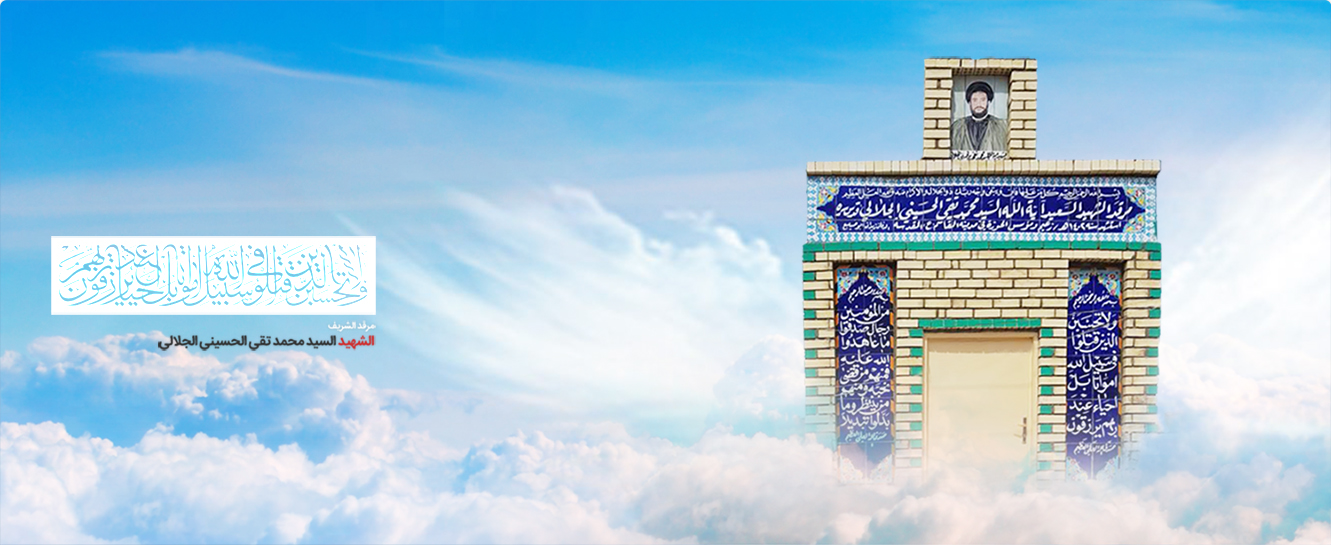
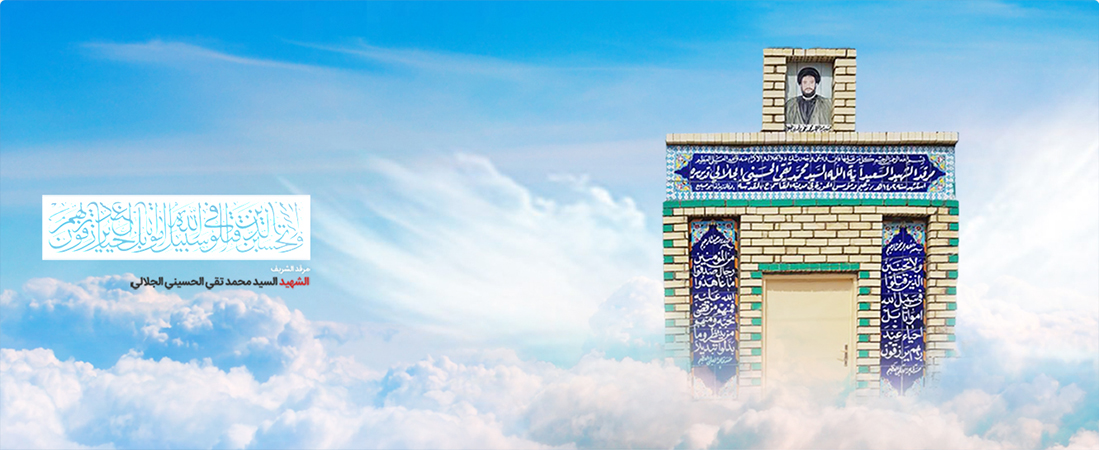
fix theme bugs

Changed region(s): [[0.6187, 0.3422, 0.8662, 0.4356], [0.6187, 0.5289, 0.6806, 0.6844], [0.8044, 0.5289, 0.8353, 0.7778]]

diff --git a/themes/frontend/css/bootstrap-theme.css b/themes/frontend/css/bootstrap-theme.css
@@ -33,7 +33,7 @@ a:active {
 
 .top-section{
     width: 100%;
-    height:800px;
+    height:656px;
     background: url("../images/sec-top-bg.jpg") center;
     background-size: cover;
     overflow: hidden;
@@ -75,9 +75,9 @@ a:active {
 }
 .person-pic{
     background: url("../images/aljalali.png") no-repeat center;
-    background-size: 263px 230px;
-    width: 263px;
-    height: 230px;
+    background-size: 245px 206px;
+    width: 245px;
+    height: 206px;
     position: absolute;
     right:0;
     bottom: 0;
@@ -88,9 +88,9 @@ a:active {
     right:230px;
     bottom: 50px;
     background: url("../images/name.png") no-repeat center;
-    background-size: 331px 106px;
-    width: 331px;
-    height:106px;
+    background-size: 300px 96px;
+    width: 300px;
+    height:96px;
     z-index:2;
 }
 .menu-container .name-pic{
@@ -206,7 +206,7 @@ a:active {
 .slider .slide-item{
     position: relative;
     width: 100%;
-    height:545px;
+    height:450px;
     overflow: hidden;
 }
 .image-container{
@@ -227,11 +227,12 @@ a:active {
     vertical-align: middle;
 }
 .slider .slide-item img{
-    max-height: 545px;
+    max-height: 450px;
     /*max-width: 100%;*/
 }
 .slider.owl-carousel .owl-item img{
     width: auto !important;
+    display: inline;
 }
 .slider .owl-dots{
     position: absolute;
@@ -282,6 +283,11 @@ a:active {
     overflow: hidden;
     box-shadow: 0 0 5px rgba(1,1,1,0.06);
     min-height: 215px;
+    -webkit-transition: all 0.4s;
+    -moz-transition: all 0.4s;
+    -ms-transition: all 0.4s;
+    -o-transition: all 0.4s;
+    transition: all 0.4s;
 }
 .about-section .about-item .content:hover{
     color: #fff;
@@ -357,6 +363,12 @@ a:active {
     margin: 0 0 15px;
     font-weight: bold;
     color: #222;
+
+    -webkit-transition: all 0.4s;
+    -moz-transition: all 0.4s;
+    -ms-transition: all 0.4s;
+    -o-transition: all 0.4s;
+    transition: all 0.4s;
 }
 .service-item .content{
     padding: 15px 5px 5px;
@@ -368,9 +380,10 @@ a:active {
     -o-transition: all 0.4s;
     transition: all 0.4s;
 }
-.service-item .content:hover,
-.service-item .content:hover h4{
+.service-item .content:hover{
     background: #80ab3c;
+}
+.service-item .content:hover h4{
     color: #fff;
 }
 .video-section{
@@ -429,7 +442,11 @@ a:active {
     color: #fccf35;
     font-weight: bold;
     line-height:50px;
-    margin: 63px 20px 63px 0;
+    margin: 33px 20px 33px 0;
+}
+.prayer-time-section h3 small{
+    display: block;
+    line-height:30px;
 }
 .prayer-time-section .times{
     float: left;

diff --git a/themes/frontend/views/partial-views/_footer.php b/themes/frontend/views/partial-views/_footer.php
@@ -2,13 +2,19 @@
 /** @var $this Controller */
 /** @var $form CActiveForm */
 $prayer = Prayer::get()->response['items'][0];
+$hijriDate = HijriDate::get()->response;
 ?>
 
 
 <div class="prayer-time-section">
     <div class="container">
         <img src="<?= Yii::app()->theme->baseUrl. '/images/kabeh.png'?>">
-        <h3>الصلاة القادمة</h3>
+        <h3>الصلاة القادمة
+            <?php if(isset($hijriDate['data']['hijri'])):?>
+                <small><?php echo $hijriDate['data']['hijri']['day'].' '.$hijriDate['data']['hijri']['month']['ar'].', '.$hijriDate['data']['hijri']['year'].' هـ'?></small>
+                <small><?php echo $hijriDate['data']['gregorian']['year'].$hijriDate['data']['gregorian']['month']['en'].$hijriDate['data']['gregorian']['day'].' مـ'?></small>
+            <?php endif;?>
+        </h3>
         <ul class="times">
             <li>
                 <div class="title">فجر</div>

diff --git a/themes/frontend/views/partial-views/_header.php b/themes/frontend/views/partial-views/_header.php
@@ -12,14 +12,14 @@ if($module == 'pages')
     <div class="container">
         <div class="header">
             <div class="aya hidden-xs"></div>
-            <div class="search-container">
+<!--            <div class="search-container">-->
 <!--                <div class="input-group">-->
 <!--                    <input type="text" class="form-control" placeholder="بحث">-->
 <!--                    <div class="input-group-btn">-->
 <!--                        <button class="btn btn-default" type="submit"><i class="search-icon"></i></button>-->
 <!--                    </div>-->
 <!--                </div>-->
-            </div>
+<!--            </div>-->
             <div class="person-pic hidden-xs"></div>
             <div class="name-pic hidden-xs"><a href="<?= Yii::app()->getBaseUrl(true) ?>"></a></div>
             <div class="menu hidden-xs">

diff --git a/protected/models/ContactForm.php b/protected/models/ContactForm.php
@@ -37,12 +37,12 @@ class ContactForm extends CFormModel
 	public function attributeLabels()
 	{
 		return array(
-			'name' => 'نام و نام خانوادگی',
-			'email' => 'پست الکترونیک',
-			'tel' => 'شماره تماس',
+			'name' => 'الاسم الکامل',
+			'email' => 'البريد الإلكتروني',
+			'tel' => 'رقم الهاتف المحمول',
 			'subject' => 'موضوع',
-			'body' => 'متن پیام',
-			'department_id' => 'بخش مورد نظر',
+			'body' => 'النص المرغوب',
+			'department_id' => 'القسم المطلوب',
 			'verifyCode'=>'کد امنیتی',
 		);
 	}

diff --git a/protected/components/HijriDate.php b/protected/components/HijriDate.php
@@ -1,0 +1,18 @@
+<?php
+
+class HijriDate
+{
+    /**
+     * @return Curl
+     * @param $date string
+     */
+    public static function get($date = null)
+    {
+        if(is_null($date))
+            $date = date('d-m-Y');
+
+        $curl = new Curl();
+        $curl->get("http://api.aladhan.com/v1/gToH?date=" . $date,false);
+        return $curl;
+    }
+}

diff --git a/protected/config/main.php b/protected/config/main.php
@@ -7,7 +7,8 @@ return array(
 	'timeZone' => 'Asia/Tehran',
 	'theme' => 'abound',
 	'sourceLanguage' => '00',
-	'language' => 'fa_ir',
+	//'language' => 'fa_ir',
+	'language' => 'ar',
 	// preloading 'log' component
 	'preload'=>array('log','userCounter'),
 
